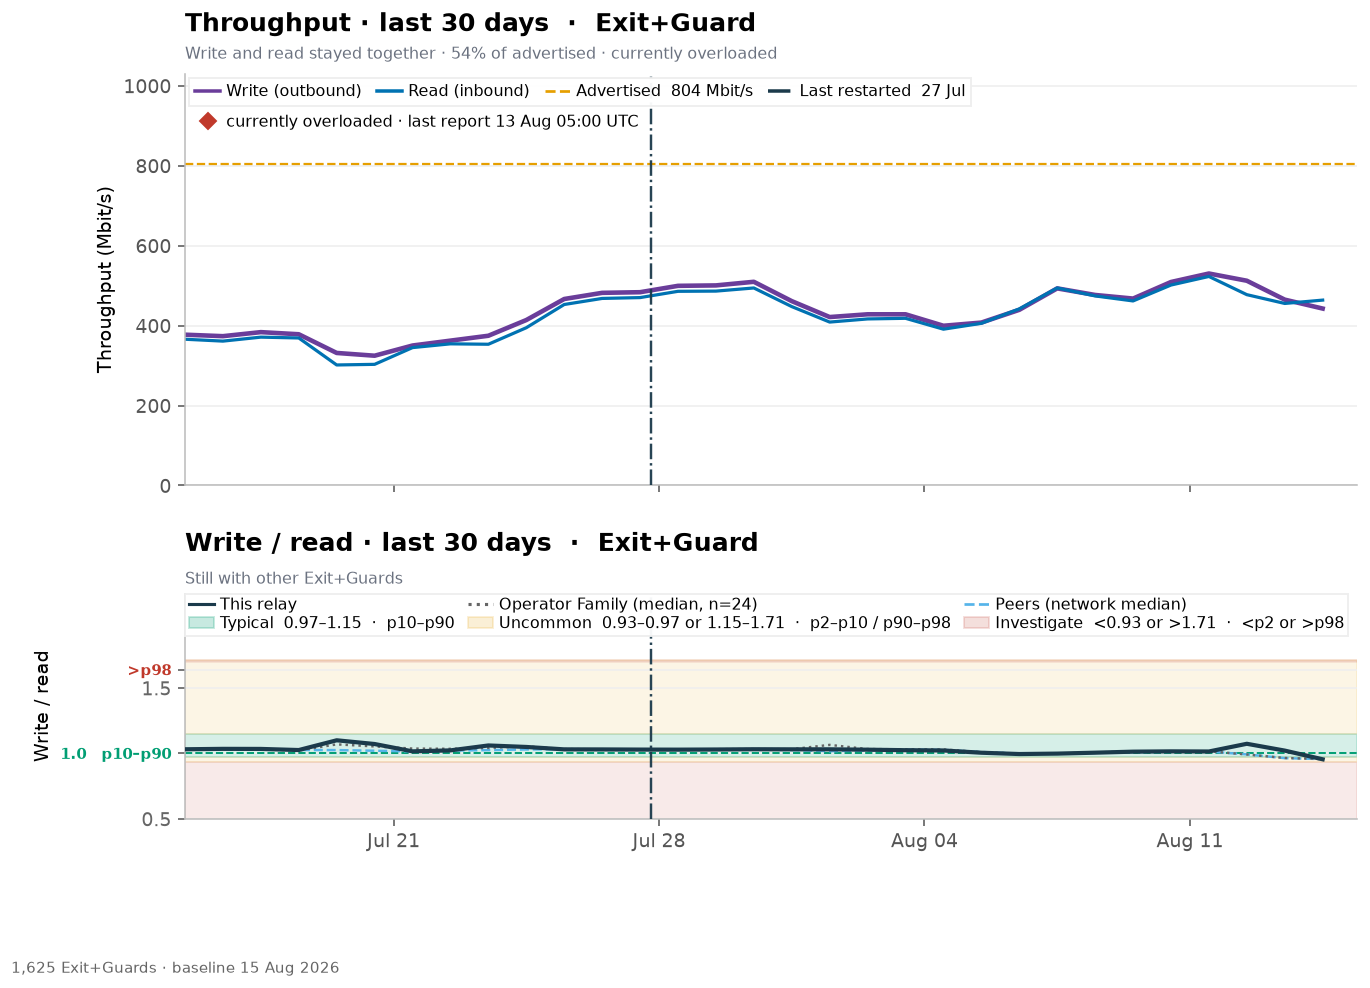
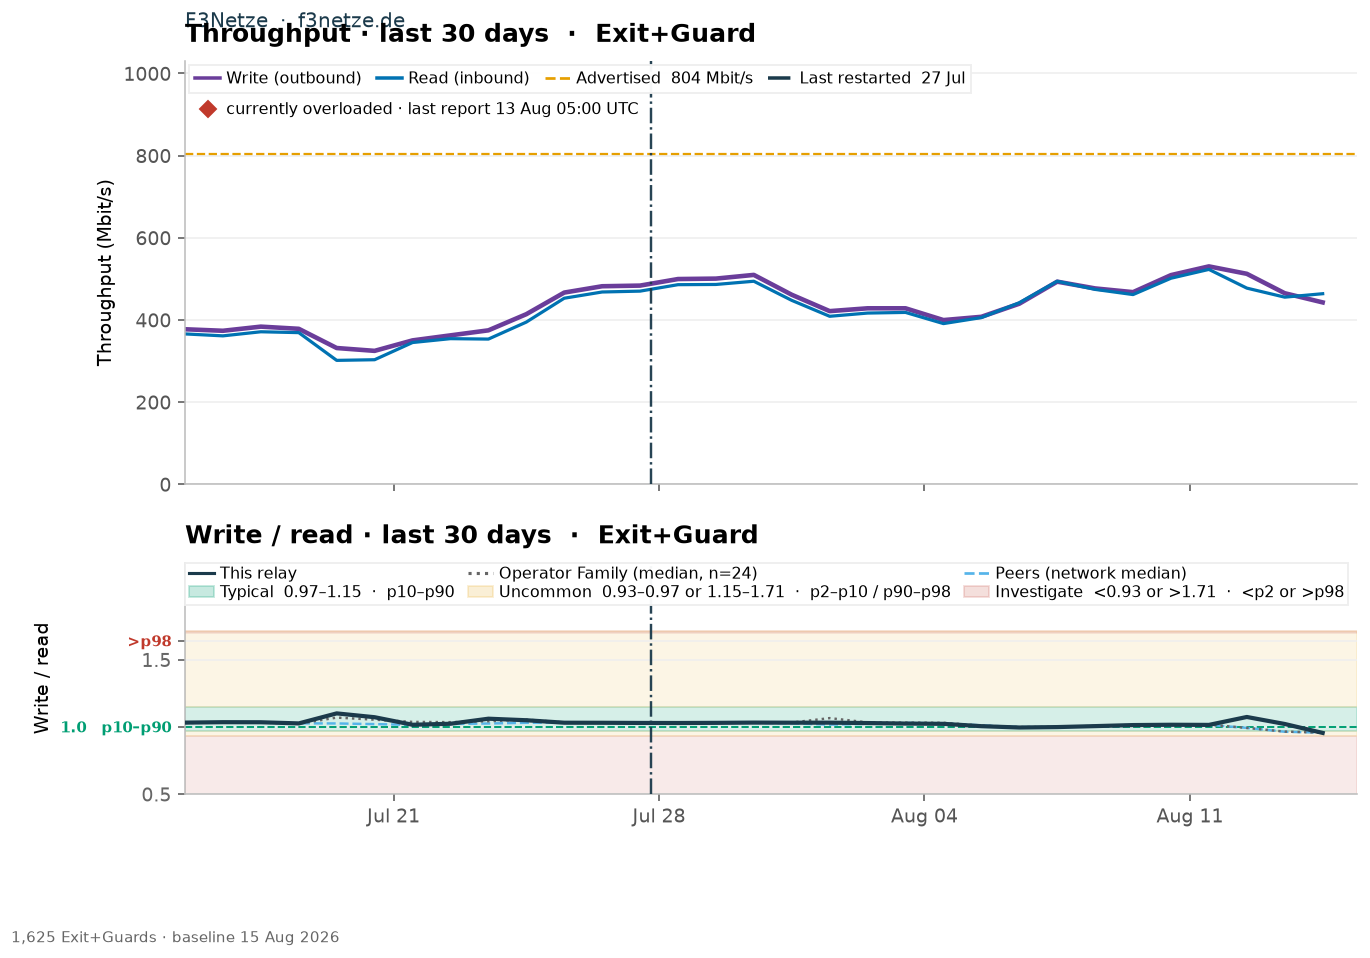
Add C-only outcome mockups with nickname on the title
Empty subtitles on all-clear F3Netze. jeangrae shows raw throughput plus
percent of advertised, and who moved. Style 5 refreshed to the same C copy.

diff --git a/docs/features/planned/charts/mockups/relay_page_bw_outcomes.html b/docs/features/planned/charts/mockups/relay_page_bw_outcomes.html
@@ -3,7 +3,7 @@
 <head>
   <meta charset="utf-8">
   <meta name="viewport" content="width=device-width, initial-scale=1">
-  <title>Outcome subtitles · three styles</title>
+  <title>Outcome subtitles · C who moved</title>
   <style>
 :root { --aeo-green:#00ff7f; --aeo-dark-surface:#1e1e1e; --aeo-text-muted:#ccc;
   --color-success:#28a745; --color-danger:#dc3545; --color-warning-text:#856404;
@@ -86,65 +86,52 @@ code { font-size:12px; background:#eee; padding:1px 4px; border-radius:3px; }
 </div></nav>
 <div class="container">
   <div class="option-banner recommend">
-    <strong>Recommended: C — who moved</strong>
-    Both keys at the top of their panel, same type size. The subtitle
-    says whose problem it is, not how the bands were built. Date +
-    number duplicates the callout on a spike. Verdict is empty on a
-    quiet month.
+    <strong>Locked: C — who moved</strong>
+    Empty when history is thin or the month is all-clear (typical
+    write/read, no investigate day, no spike, no crash). Overload
+    stays in the legend. Restart is a vertical line. Nickname and
+    operator sit <em>above</em> Throughput so a screenshot still names
+    the relay without repeating the page h1. Any advertised share is
+    raw throughput plus percent:
+    <code>99 Mbit/s (15% of advertised)</code>.
   </div>
   <p class="relay-meta">
     Legends match at 8 pt, both in a shelf at the top of the panel.
-    Subject is <strong>jeangrae</strong> (spike, this relay only) and
-    <strong>F3Netze</strong> (typical, currently overloaded).
+    Live subjects: <strong>jeangrae</strong> (spike, this relay only)
+    and <strong>F3Netze</strong> (all-clear, currently overloaded).
   </p>
   <h3>Every story these two strips can conclude</h3>
   <div class="chart-wrap">
-    <img src="relay_bandwidth_outcome_scenarios.png" alt="Outcome subtitle scenarios">
+    <img src="relay_bandwidth_outcome_c_table.png" alt="Outcome subtitle C table">
   </div>
-  <h3>Three styles on jeangrae</h3>
   
-  <section class="section-box">
-    <h4>A — Date + number</h4>
-    <p class="relay-meta">What happened, when, and by how much. On a spike this repeats the callout. On a quiet month it is the utilization number the title does not give you.</p>
+  <section class="section-box recommend">
+    <h4>jeangrae · C who moved</h4>
+    <p class="relay-meta">Write moved off the Guard band; family and peers stayed. Identity sits above Throughput: jeangrae · 1aeo.com. Throughput is raw plus percent of advertised.</p>
     <div class="chart-wrap">
-      <img src="relay_bandwidth_outcome_dated_jeangrae.png" alt="A — Date + number">
-    </div>
-  </section>
-  <section class="section-box">
-    <h4>B — Verdict</h4>
-    <p class="relay-meta">Shortest. Names the story without the figures. On a quiet month it is almost empty (“Typical all month”).</p>
-    <div class="chart-wrap">
-      <img src="relay_bandwidth_outcome_verdict_jeangrae.png" alt="B — Verdict">
+      <img src="relay_bandwidth_outcome_c_jeangrae.png" alt="jeangrae · C who moved">
     </div>
   </section>
   <section class="section-box recommend">
-    <h4>C — Who moved · recommended</h4>
-    <p class="relay-meta">Ship this. Answers “is it just me?” Family and peers stayed on jeangrae. F3 is still with other Exit+Guards. Falls back to a quiet all-clear when nothing left the band.</p>
+    <h4>F3Netze · C who moved</h4>
+    <p class="relay-meta">All-clear month: typical write/read, no investigate day, no spike, no crash. Subtitles stay empty. Overload is the legend diamond. Identity sits above Throughput: F3Netze · f3netze.de.</p>
     <div class="chart-wrap">
-      <img src="relay_bandwidth_outcome_who_jeangrae.png" alt="C — Who moved">
+      <img src="relay_bandwidth_outcome_c_f3.png" alt="F3Netze · C who moved">
     </div>
   </section>
-  <h3>Same three styles on F3Netze</h3>
-  
-  <section class="section-box">
-    <h4>F3Netze · A — Date + number</h4>
-    <p class="relay-meta">Typical strip. Overload stays a legend diamond plus a clause on the throughput line.</p>
+  <h3>Where the name sits</h3>
+  <section class="section-box recommend">
+    <h4>Above Throughput · ship this</h4>
+    <p class="relay-meta">Eyebrow: jeangrae · 1aeo.com. Metric title stays short. A screenshot still names the relay. On the page this is a figure label, not a second h1.</p>
     <div class="chart-wrap">
-      <img src="relay_bandwidth_outcome_dated_f3.png" alt="F3Netze · A — Date + number">
-    </div>
-  </section>
-  <section class="section-box">
-    <h4>F3Netze · B — Verdict</h4>
-    <p class="relay-meta">Typical strip. Overload stays a legend diamond plus a clause on the throughput line.</p>
-    <div class="chart-wrap">
-      <img src="relay_bandwidth_outcome_verdict_f3.png" alt="F3Netze · B — Verdict">
+      <img src="relay_bandwidth_identity_above_jeangrae.png" alt="Above Throughput · ship this">
     </div>
   </section>
   <section class="section-box recommend">
-    <h4>F3Netze · C — Who moved · recommended</h4>
-    <p class="relay-meta">Typical strip. Overload stays a legend diamond plus a clause on the throughput line.</p>
+    <h4>In front of Throughput · rejected</h4>
+    <p class="relay-meta">jeangrae · 1aeo.com · Throughput · last 30 days · Guard is one long line. It wraps and repeats the page heading at title weight.</p>
     <div class="chart-wrap">
-      <img src="relay_bandwidth_outcome_who_f3.png" alt="F3Netze · C — Who moved">
+      <img src="relay_bandwidth_identity_infront_jeangrae.png" alt="In front of Throughput · rejected">
     </div>
   </section>
   <p class="al-text-small-muted">Onionoo relays_published 2026-08-15 06:00:00 UTC.
